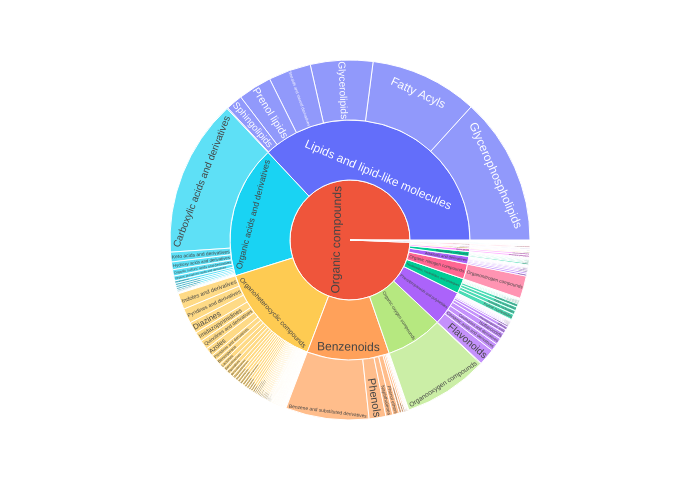
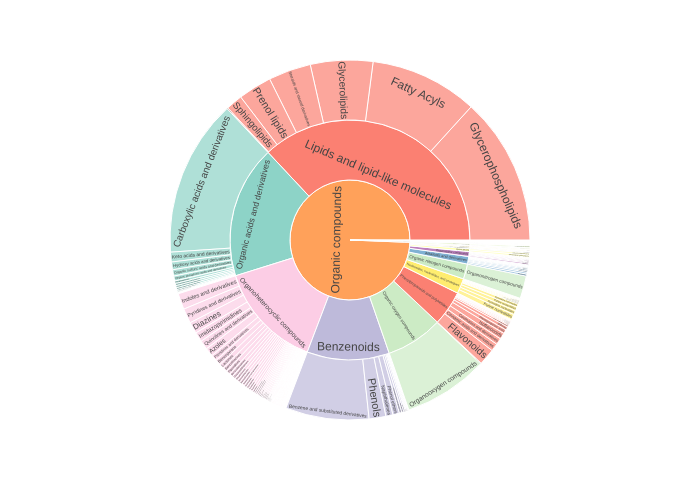
create 5 types of sunburst plot with same color palette

Changed region(s): [[0.24, 0.12, 0.78, 0.84]]

diff --git a/python/sunburst_classyfire.py b/python/sunburst_classyfire.py
@@ -1,20 +1,36 @@
 import plotly.express as px
+from plotly.colors import qualitative
 import pickle
+import itertools
 
-# with open('ml_inchikey_classyfire.pkl', 'rb') as f:
-#     ml_inchikey_classyfire = pickle.load(f)
+with open('ml_inchikey_classyfire.pkl', 'rb') as f:
+    ml_inchikey_classyfire = pickle.load(f)
 
-# with open('mw_inchikey_classyfire.pkl', 'rb') as f:
-#     mw_inchikey_classyfire = pickle.load(f)
+with open('mw_inchikey_classyfire.pkl', 'rb') as f:
+    mw_inchikey_classyfire = pickle.load(f)
 
 with open('intersection_classyfire.pkl', 'rb') as f:
-    df = pickle.load(f)
+    intersection_classyfire= pickle.load(f)
 
-# with open('ml_only_classyfire.pkl', 'rb') as f:
-#     ml_only_classyfire = pickle.load(f)
+with open('ml_only_classyfire.pkl', 'rb') as f:
+    ml_only_classyfire = pickle.load(f)
 
-# with open('mw_only_classyfire.pkl', 'rb') as f:
-#     mw_only_classyfire = pickle.load(f)
+with open('mw_only_classyfire.pkl', 'rb') as f:
+    mw_only_classyfire = pickle.load(f)
 
-fig = px.sunburst(df, path=['kingdom', 'super_class', 'class'], values=None, color='super_class')
-fig.write_image("classyfire_sunburst.png")
+all_super_class = set(ml_inchikey_classyfire['super_class']) | set(mw_inchikey_classyfire['super_class']) 
+palette = itertools.cycle(qualitative.Set3)
+
+color_map = {val: color for val, color in zip(all_super_class, palette)}
+
+fig_ml = px.sunburst(ml_inchikey_classyfire, path=['kingdom', 'super_class', 'class'], values=None, color='super_class', color_discrete_map=color_map)
+fig_ml.write_image("ml_classyfire.png")
+fig_mw = px.sunburst(mw_inchikey_classyfire, path=['kingdom', 'super_class', 'class'], values=None, color='super_class', color_discrete_map=color_map)
+fig_mw.write_image("mw_classyfire.png")
+fig_intersection = px.sunburst(intersection_classyfire, path=['kingdom', 'super_class', 'class'], values=None, color='super_class', color_discrete_map=color_map)
+fig_intersection.write_image("intersection_classyfire.png")
+fig_mlonly = px.sunburst(ml_only_classyfire, path=['kingdom', 'super_class', 'class'], values=None, color='super_class', color_discrete_map=color_map)
+fig_mlonly.write_image("mlonly_classyfire.png")
+fig_mwonly = px.sunburst(mw_only_classyfire, path=['kingdom', 'super_class', 'class'], values=None, color='super_class', color_discrete_map=color_map)
+fig_mwonly.write_image("mwonly_classyfire.png")
+
